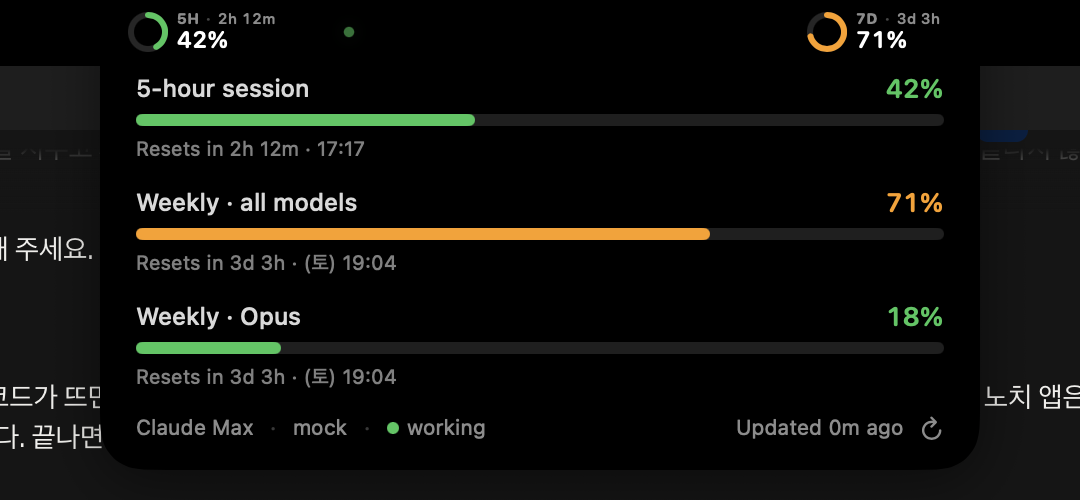
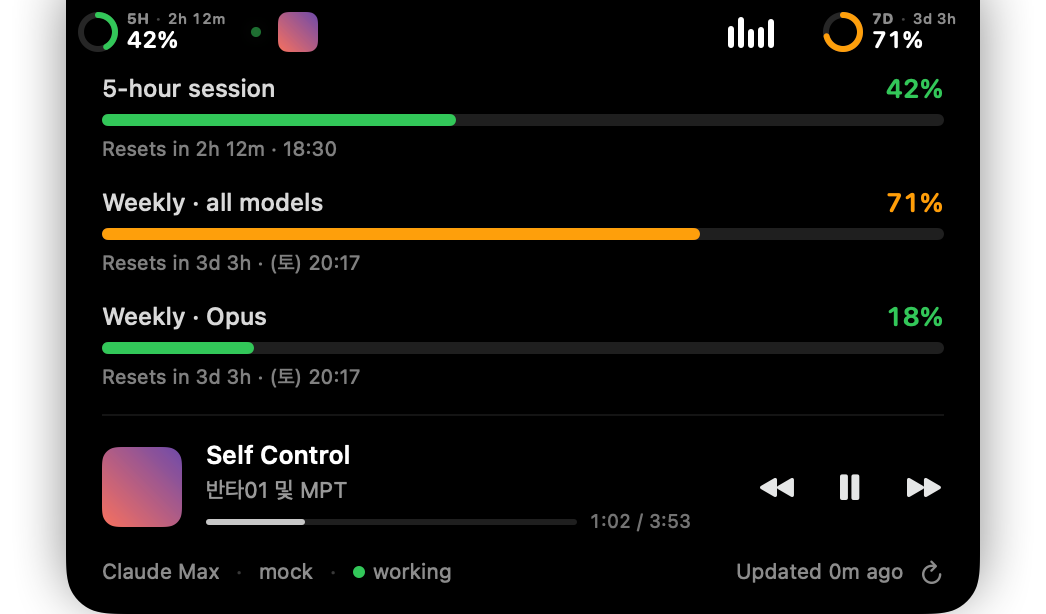
README screenshots for the current island; ISLET_SNAPSHOT render mode and make shots

diff --git a/Sources/Islet/App.swift b/Sources/Islet/App.swift
@@ -59,6 +59,7 @@ final class AppDelegate: NSObject, NSApplicationDelegate {
         store.start()
         ActivityMonitor.shared.start()
         rebuildPanel()
+        snapshotIfRequested()
 
         observers.append(NotificationCenter.default.addObserver(
             forName: NSApplication.didChangeScreenParametersNotification, object: nil, queue: .main
@@ -74,6 +75,46 @@ final class AppDelegate: NSObject, NSApplicationDelegate {
             }
             observers.append(music)
         }
+    }
+
+    /// ISLET_SNAPSHOT=/path/out.png renders the island to a trimmed PNG and quits (for README shots).
+    private func snapshotIfRequested() {
+        guard let path = ProcessInfo.processInfo.environment["ISLET_SNAPSHOT"] else { return }
+        DispatchQueue.main.asyncAfter(deadline: .now() + 1.5) { [weak self] in
+            defer { NSApp.terminate(nil) }
+            guard let view = self?.panel?.contentView,
+                  let rep = view.bitmapImageRepForCachingDisplay(in: view.bounds) else { return }
+            view.cacheDisplay(in: view.bounds, to: rep)
+            guard let trimmed = Self.trimTransparent(rep, padding: 24),
+                  let png = trimmed.representation(using: .png, properties: [:]) else { return }
+            try? png.write(to: URL(fileURLWithPath: path))
+            Log.info("snapshot written to \(path)")
+        }
+    }
+
+    private static func trimTransparent(_ rep: NSBitmapImageRep, padding: Int) -> NSBitmapImageRep? {
+        let w = rep.pixelsWide, h = rep.pixelsHigh
+        var minX = w, minY = h, maxX = -1, maxY = -1
+        for y in 0..<h {
+            for x in 0..<w where (rep.colorAt(x: x, y: y)?.alphaComponent ?? 0) > 0.02 {
+                minX = min(minX, x); maxX = max(maxX, x); minY = min(minY, y); maxY = max(maxY, y)
+            }
+        }
+        guard maxX >= minX else { return nil }
+        let x0 = max(0, minX - padding), y0 = max(0, minY - padding)
+        let x1 = min(w - 1, maxX + padding), y1 = min(h - 1, maxY + padding)
+        let cw = x1 - x0 + 1, ch = y1 - y0 + 1
+        guard let out = NSBitmapImageRep(bitmapDataPlanes: nil, pixelsWide: cw, pixelsHigh: ch, bitsPerSample: 8,
+                                         samplesPerPixel: 4, hasAlpha: true, isPlanar: false,
+                                         colorSpaceName: .deviceRGB, bytesPerRow: 0, bitsPerPixel: 0) else { return nil }
+        NSGraphicsContext.saveGraphicsState()
+        NSGraphicsContext.current = NSGraphicsContext(bitmapImageRep: out)
+        // Bitmap rows are top-down; NSRect drawing is bottom-up, so flip the source rect.
+        let src = NSRect(x: x0, y: h - y1 - 1, width: cw, height: ch)
+        NSImage(cgImage: rep.cgImage!, size: NSSize(width: w, height: h))
+            .draw(in: NSRect(x: 0, y: 0, width: cw, height: ch), from: src, operation: .copy, fraction: 1)
+        NSGraphicsContext.restoreGraphicsState()
+        return out
     }
 
     func applicationWillTerminate(_ notification: Notification) {

diff --git a/README.md b/README.md
@@ -54,6 +54,7 @@ Environment flags for development:
 | `ISLET_MOCK_USAGE=1` | Mock only the usage numbers; activity pulse and Now Playing stay real. |
 | `ISLET_ADAPTER_DIR` | Directory holding `mediaremote-adapter.pl` + `MediaRemoteAdapter.framework` when running the bare binary. |
 | `ISLET_EXPANDED=1` | Start with the island expanded (for screenshots). |
+| `ISLET_SNAPSHOT=/path/out.png` | Render the island to a trimmed PNG and quit. `make shots` regenerates `docs/*.png`. |
 
 ## Troubleshooting
 
